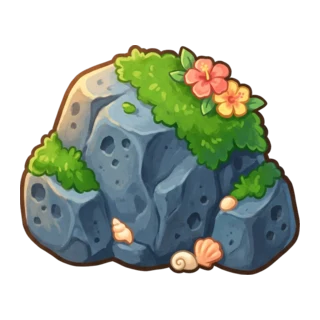
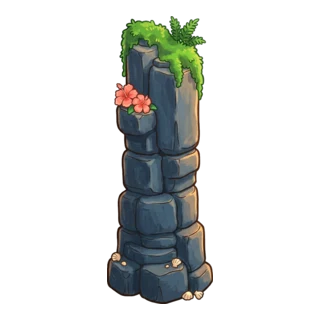
fix(lagoon-run): restore unjumpable rock spire and morning horizon load fallback

diff --git a/tests/lagoon-run-backdrop.test.tsx b/tests/lagoon-run-backdrop.test.tsx
@@ -50,27 +50,57 @@ describe('Lagoon Run morning horizon backdrop', () => {
     }
   });
 
-  it('renders horizon-morning.webp on morning without opaque vector sky occlusion', async () => {
+  it('keeps the vector morning backdrop visible while loading, reveals the painted horizon onLoad, and falls back cleanly onError', async () => {
     const w = 390, h = 660, layout = stageLayout(w, h);
+    const expectVectorMorning = (r: ReactTestRenderer) => {
+      const images = host(r, 'Image');
+      expect(images).toHaveLength(1);
+      expect(images[0].props.source).toBe(illustrated.horizonMorning());
+      expect(images[0].props.resizeMode).toBe('cover');
+      expect(images[0].props.fadeDuration).toBe(0);
+      expect(images[0].props.accessible).toBe(false);
+      expect(images[0].props.style.opacity).toBe(0);
+      expect(host(r, 'Rect').some(n => n.props.fill === 'url(#lr-sky)')).toBe(true);
+      expect(host(r, 'Circle').length).toBeGreaterThan(0);
+      expect(host(r, 'Path').length).toBeGreaterThan(0);
+      const waterGradient = host(r, 'LinearGradient').find(g => g.props.id === 'lr-water')!;
+      const stops = waterGradient.findAll(n => String(n.type) === 'Stop');
+      expect(stops).toHaveLength(2);
+      expect(stops[0].props.stopOpacity).toBeUndefined();
+      expect(host(r, 'Rect').some(n => n.props.fill === 'url(#lr-haze)')).toBe(true);
+    };
+
+    // (a) Initial / loading state: image stays mounted at opacity 0 while full vector sky + opaque water render.
     await act(async () => { tree = create(<RunBackdrop world="w1" layout={layout} width={w} height={h}/>); });
     const wrap = tree!.root.findByProps({ testID: 'run-horizon-morning' });
     expect(wrap.props.style).toMatchObject({ overflow: 'hidden', width: w });
-    const images = host(tree!, 'Image');
-    expect(images).toHaveLength(1);
-    expect(images[0].props.source).toBe(illustrated.horizonMorning());
-    expect(images[0].props.resizeMode).toBe('cover');
-    expect(images[0].props.fadeDuration).toBe(0);
-    expect(images[0].props.accessible).toBe(false);
-    // Vector sky, sun, clouds, hills, and landmark are omitted so the painted sunrise shines through.
+    expectVectorMorning(tree!);
+
+    // (b) After onLoad: painted morning horizon becomes visible, vector sky/hills hide, top water fade activates.
+    await act(async () => { host(tree!, 'Image')[0].props.onLoad(); });
+    const loadedImage = host(tree!, 'Image')[0];
+    expect(loadedImage.props.style.opacity).toBe(1);
     expect(host(tree!, 'Rect').some(r => r.props.fill === 'url(#lr-sky)')).toBe(false);
     expect(host(tree!, 'Circle')).toHaveLength(0);
     expect(host(tree!, 'Path')).toHaveLength(0);
-    // Interactive water fade, haze, and glints still render over the lower stage.
     const waterGradient = host(tree!, 'LinearGradient').find(g => g.props.id === 'lr-water')!;
     const stops = waterGradient.findAll(n => String(n.type) === 'Stop');
+    expect(stops).toHaveLength(3);
     expect(stops[0].props.stopOpacity).toBe(0);
     expect(stops[1].props.stopOpacity).toBe(1);
     expect(host(tree!, 'Rect').some(r => r.props.fill === 'url(#lr-haze)')).toBe(true);
+
+    // (c) After onError: falls back cleanly to full vector morning sky, hills, landmark, and opaque water.
+    await act(async () => { host(tree!, 'Image')[0].props.onError(); });
+    expectVectorMorning(tree!);
+
+    // Switching away to another world and back resets readiness until the remounted image fires onLoad again.
+    await act(async () => { host(tree!, 'Image')[0].props.onLoad(); });
+    expect(host(tree!, 'Image')[0].props.style.opacity).toBe(1);
+    await act(async () => { tree!.update(<RunBackdrop world="w2" layout={layout} width={w} height={h}/>); });
+    expect(host(tree!, 'Image')).toHaveLength(0);
+    await act(async () => { tree!.update(<RunBackdrop world="w1" layout={layout} width={w} height={h}/>); });
+    expectVectorMorning(tree!);
   });
 
   it('preserves layered vector sky, clouds, hills, and landmarks on festival and rain worlds', async () => {

diff --git a/tests/lagoon-run-premium.test.tsx b/tests/lagoon-run-premium.test.tsx
@@ -9,10 +9,10 @@ import { BakedCanoe, BakedHazard, BakedShell } from '../src/arcade/games/lagoon-
 import { LagoonFeedback, useRunFeedback } from '../src/arcade/games/lagoon-run/RunFeedback';
 import { actorImageFrame, illustrated, illustratedHazard } from '../src/arcade/games/lagoon-run/illustrated';
 import { impactMotion, runnerKinetics } from '../src/arcade/games/lagoon-run/kinetics';
-import { hazardBox } from '../src/arcade/games/lagoon-run/course';
-import { createRun, runLevels, type RunState } from '../src/arcade/games/lagoon-run/engine';
+import { HAZARDS, hazardBox } from '../src/arcade/games/lagoon-run/course';
+import { createRun, JUMP_SECONDS, rowSafe, runLevels, runnerHeight, type RunState } from '../src/arcade/games/lagoon-run/engine';
 import { HERO_SCALE, projectTrack } from '../src/arcade/games/lagoon-run/camera';
-import { CANOE_DEPTH, DUCK_MAX_ELEVATION } from '../src/arcade/games/lagoon-run/geometry';
+import { CANOE_DEPTH, DUCK_MAX_ELEVATION, visualRunHeight } from '../src/arcade/games/lagoon-run/geometry';
 import { runPoses, spritePoint } from '../src/arcade/games/scrolling/render';
 import { RUNNER_SOLE } from '../src/arcade/games/scrolling/runnerAnchors';
 import { surfaceProfile } from '../src/arcade/games/lagoon-run/surface';
@@ -138,6 +138,34 @@ describe('Lagoon Run illustrated actors', () => {
     }
     expect(illustrated.cooler.contactHeight).toBeLessThan(hazardBox('cooler').height);
     expect(illustrated.rock.contactHeight).toBeGreaterThan(illustrated.cooler.contactHeight);
+  });
+
+  it('draws the unjumpable rock taller than ordinary jump clearance and keeps the jumpable cooler below it', () => {
+    const start = createRun(runLevels[0], 771);
+    const apexState: RunState = { ...start, lane: 1, poseLane: 1, elevation: 0, jump: JUMP_SECONDS / 2, jumpDuration: JUMP_SECONDS, kite: 0 };
+    const apexLift = visualRunHeight(runnerHeight(apexState)) * 85;
+    expect(apexLift).toBeCloseTo(85);
+
+    const sandRow = (kind: 'rock' | 'cooler') => ({
+      ...start.rows[0], lane: 1, second: -1, third: false, shellLane: 0, kind, z: 1, passed: false, surface: 'sand' as const,
+    });
+    expect(HAZARDS.rock).toBe('lane');
+    expect(rowSafe(apexState, sandRow('rock'), true)).toBe(false);
+    expect(HAZARDS.cooler).toBe('jump');
+    expect(rowSafe(apexState, sandRow('cooler'), true)).toBe(true);
+
+    const renderedInkHeight = (kind: 'rock' | 'cooler') => {
+      const box = hazardBox(kind), art = illustrated[kind];
+      const frame = actorImageFrame(art, box.width, art.contactHeight, box.height);
+      const scale = frame.width / art.pixels;
+      return art.ink[3] * scale;
+    };
+    const rockHeight = renderedInkHeight('rock');
+    const coolerHeight = renderedInkHeight('cooler');
+    expect(rockHeight).toBeCloseTo(104);
+    expect(rockHeight).toBeGreaterThan(apexLift);
+    expect(coolerHeight).toBeCloseTo(42);
+    expect(coolerHeight).toBeLessThan(apexLift);
   });
 
   it('hangs the banner below the standing runner and above the highest safe rolling pose', () => {

diff --git a/src/arcade/games/lagoon-run/Backdrop.tsx b/src/arcade/games/lagoon-run/Backdrop.tsx
@@ -1,4 +1,4 @@
-import React, { memo, useEffect } from 'react';
+import React, { memo, useEffect, useState } from 'react';
 import { Image, View } from 'react-native';
 import Svg, { Circle, Defs, Ellipse, G, LinearGradient, Path, RadialGradient, Rect, Stop } from 'react-native-svg';
 import Animated, { cancelAnimation, Easing, useAnimatedStyle, useSharedValue, withRepeat, withTiming } from 'react-native-reanimated';
@@ -31,11 +31,26 @@ export const RunBackdrop = memo(function RunBackdrop({ world, layout, width, hei
   const look = lagoonLook(world), W = layout.width, H = layout.height, hz = layout.horizon, cx = W / 2;
   const [sx, sy, core, glow] = look.sun, sun = { x: W * sx, y: hz * sy };
   const horizon = look.id === 'morning' ? illustrated.horizonMorning() : undefined;
-  const painted = horizon !== undefined ? morningHorizonFrame(layout, width, height) : undefined;
+  const horizonFrame = horizon !== undefined ? morningHorizonFrame(layout, width, height) : undefined;
+  const [loaded, setLoaded] = useState(false);
+  const [trackedHorizon, setTrackedHorizon] = useState(horizon);
+  if (trackedHorizon !== horizon) {
+    setTrackedHorizon(horizon);
+    setLoaded(false);
+  }
+  const painted = horizonFrame !== undefined && loaded;
   return <>
-    {painted && (
-      <View testID="run-horizon-morning" pointerEvents="none" style={{ position: 'absolute', left: 0, top: 0, width, height: painted.clipHeight, overflow: 'hidden' }}>
-        <Image source={horizon} resizeMode="cover" fadeDuration={0} accessible={false} style={{ position: 'absolute', left: 0, top: painted.imageTop, width, height: painted.imageHeight }}/>
+    {horizon !== undefined && horizonFrame && (
+      <View testID="run-horizon-morning" pointerEvents="none" style={{ position: 'absolute', left: 0, top: 0, width, height: horizonFrame.clipHeight, overflow: 'hidden' }}>
+        <Image
+          source={horizon}
+          resizeMode="cover"
+          fadeDuration={0}
+          accessible={false}
+          onLoad={() => setLoaded(true)}
+          onError={() => setLoaded(false)}
+          style={{ position: 'absolute', left: 0, top: horizonFrame.imageTop, width, height: horizonFrame.imageHeight, opacity: loaded ? 1 : 0 }}
+        />
       </View>
     )}
     <Svg width={width} height={height} viewBox={`0 0 ${W} ${H}`} preserveAspectRatio="none" style={{ position: 'absolute' }} accessible={false}>

diff --git a/src/arcade/games/lagoon-run/illustrated.ts b/src/arcade/games/lagoon-run/illustrated.ts
@@ -32,7 +32,7 @@ export const illustrated: LagoonIllustrations = {
   // The lowest bunting pixel (row 121) has about 56 pt of deck clearance at contact.
   banner: { source: () => require('../../../../assets/arcade/lagoon/illustrated/banner.webp'), pixels: 384, ink: [21, 51, 342, 282], contactHeight: 74, buntingBottom: 121 },
   cooler: { source: () => require('../../../../assets/arcade/lagoon/illustrated/cooler.webp'), pixels: 256, ink: [16, 36, 224, 183], contactHeight: 42 },
-  rock: { source: () => require('../../../../assets/arcade/lagoon/illustrated/rock.webp'), pixels: 320, ink: [20, 45, 280, 230], contactHeight: 104 },
+  rock: { source: () => require('../../../../assets/arcade/lagoon/illustrated/rock.webp'), pixels: 320, ink: [107, 16, 106, 288], contactHeight: 104 },
   horizonMorning: () => require('../../../../assets/arcade/lagoon/illustrated/horizon-morning.webp'),
 };
 
